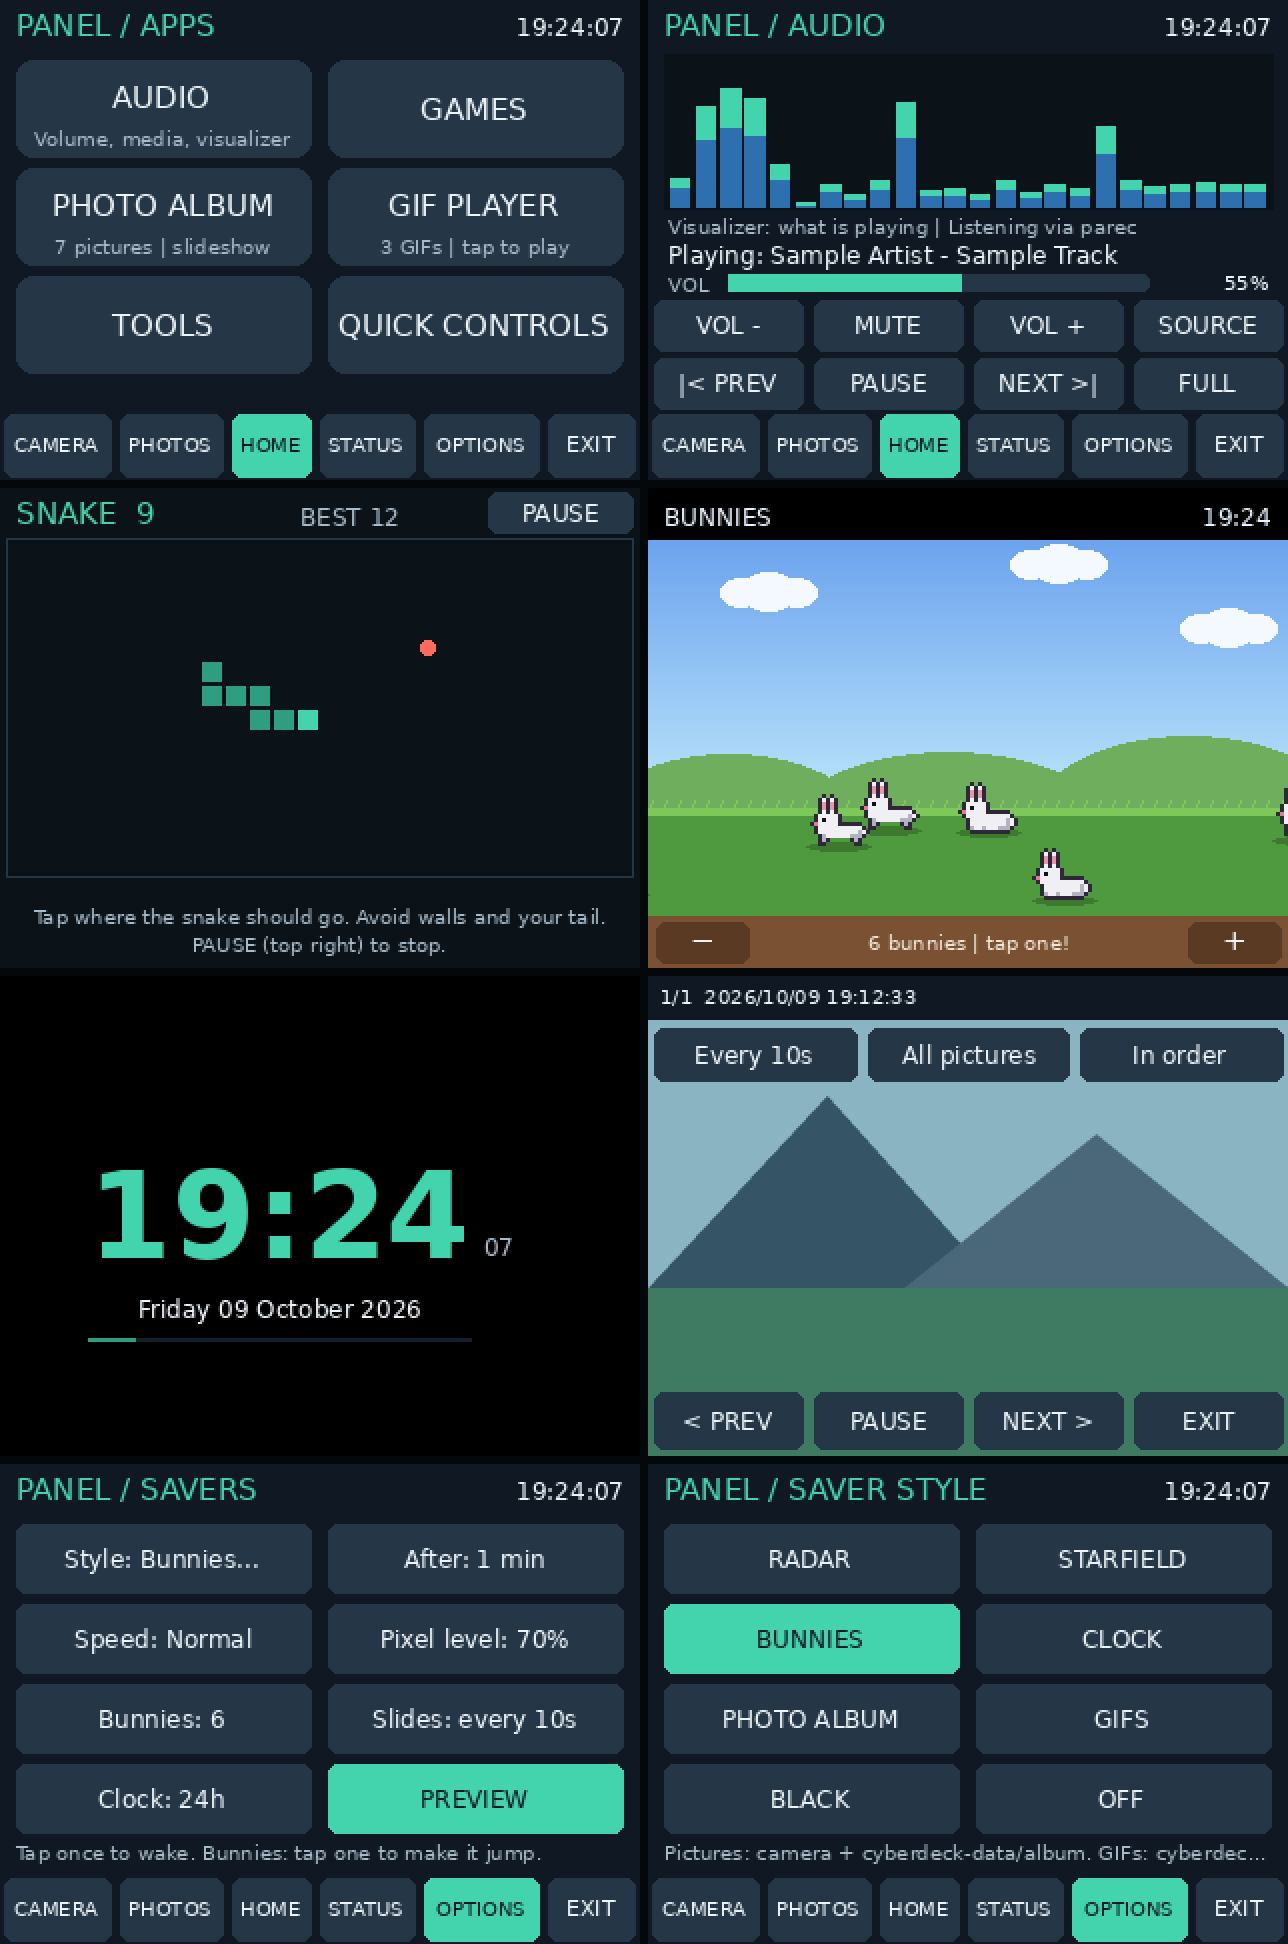
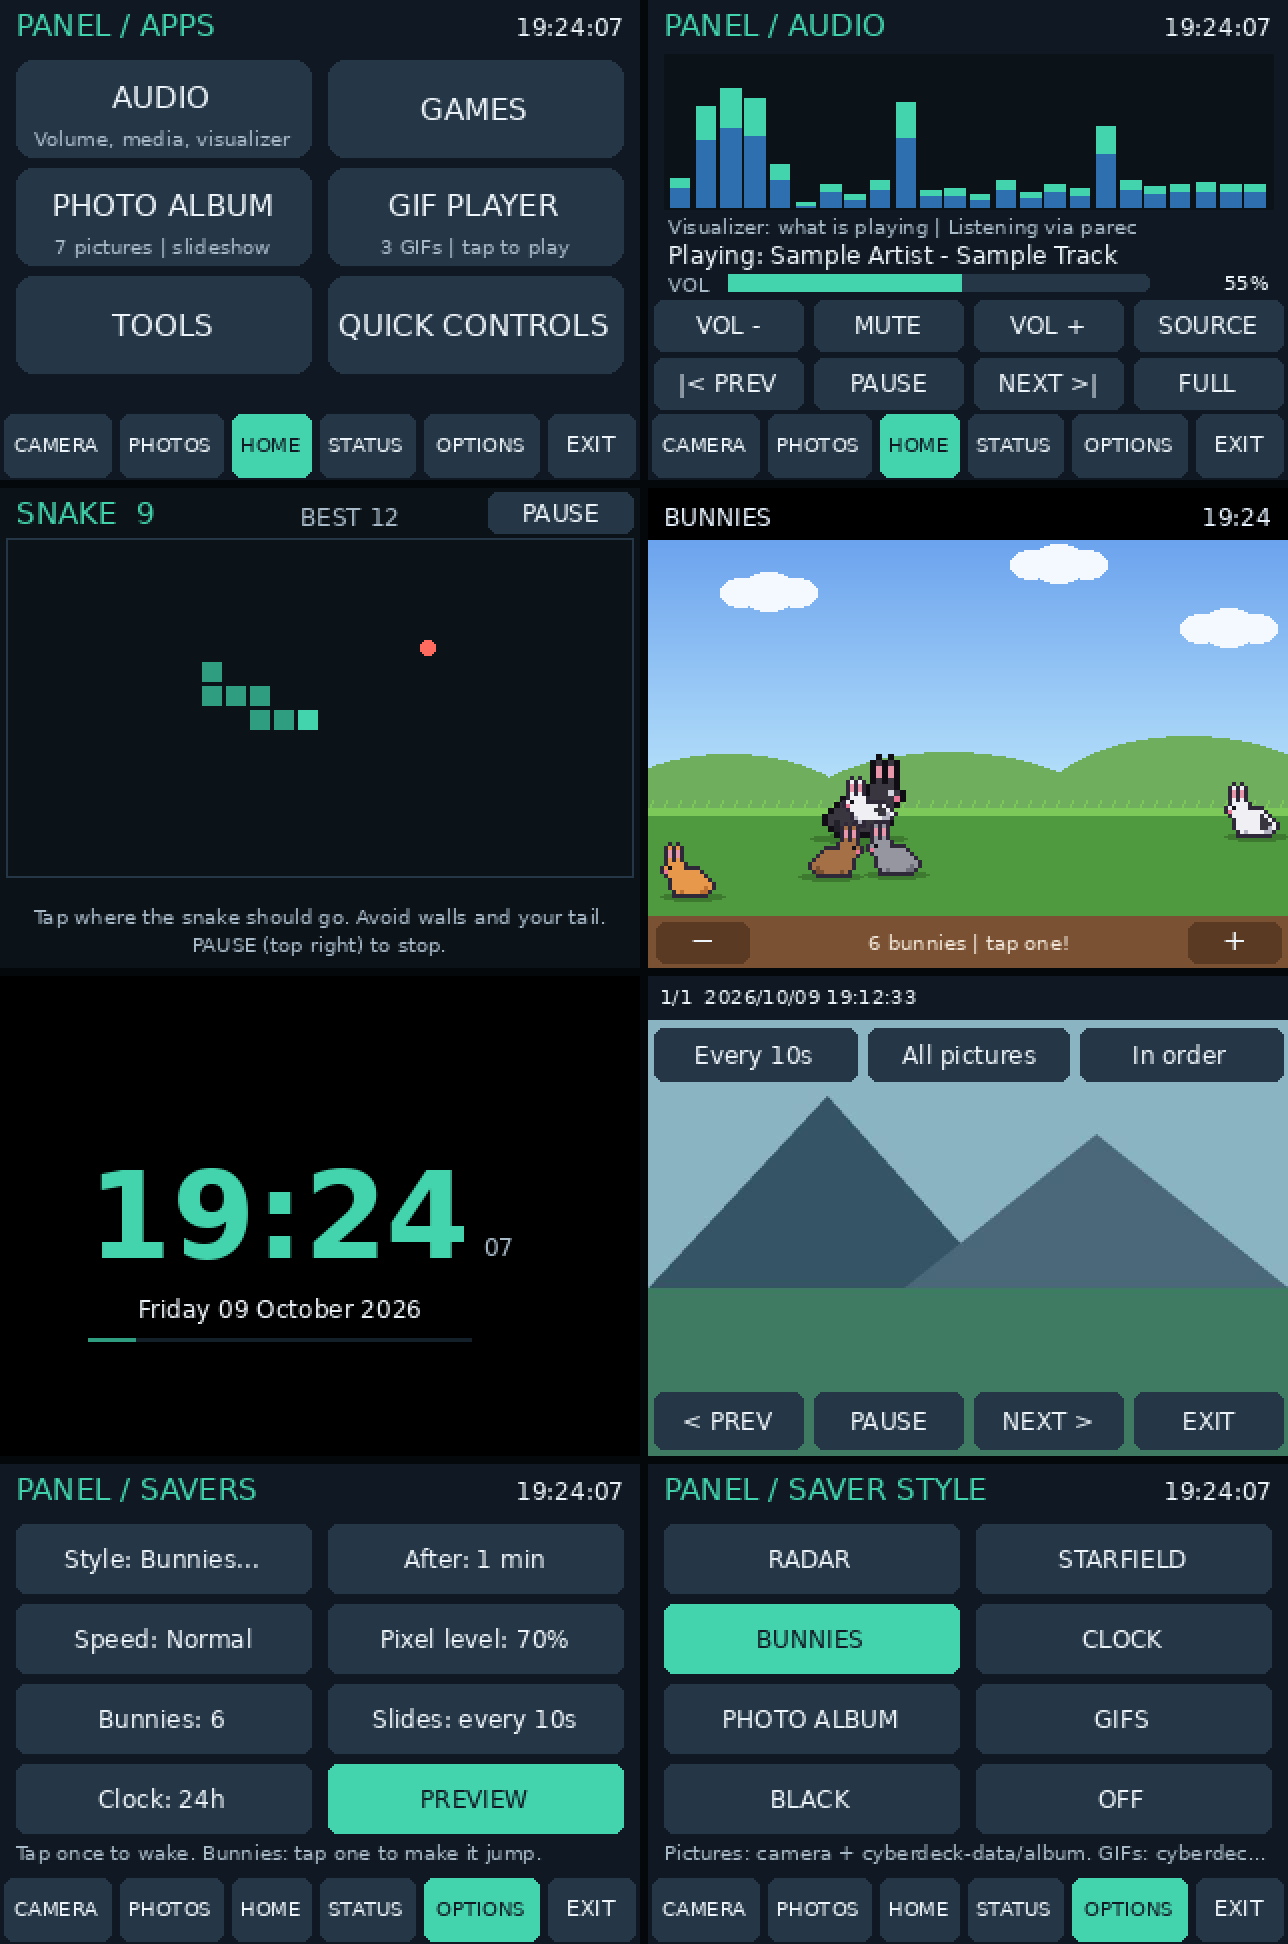
Bunny saver: random breeds and coats, compact new sprite
- Rounder, more compact sitting pose (the old torso was long and flat)
- Lop variant with hanging ears; Flemish giants drawn 1.5x, slower,
  bigger hops, in solid giant colours
- Eight coats incl. Dutch and spotted markings, picked at random per bunny
- Per-bunny frames (cached), size-aware edge wrap and tap targets; a custom
  sprite still replaces all breeds
- Tests, breed chart preview and docs

Claude-Session: https://claude.ai/code/session_01XeYQ8PF2srL9M1PCKTNy7Z

diff --git a/panel_app.py b/panel_app.py
@@ -886,37 +886,85 @@ HOME_CLOCK, HOME_LABEL, HOME_LABEL_SMALL = font(34, bold=True), font(14, bold=Tr
 
 # Original pixel art in the spirit of the Terraria bunny (not Re-Logic's sprite).
 # Drop your own sheet in cyberdeck-data/sprites/bunny.png to replace it.
-BUNNY_PALETTE = {'o': (46, 40, 56), 'w': (240, 240, 244), 'g': (178, 178, 192),
-                 'p': (232, 150, 170), 'e': (20, 16, 24), 'n': (232, 120, 150)}
-BUNNY_SIT = ["..........o.o...", ".........owowo..", ".........opopo..", ".........opopo..",
-             ".........owowo..", "........owwwwwo.", "........owwwewo.", "...oooooowwwwwno",
-             "..owwwwwwwwwwwo.", ".owgwwwwwwwwwo..", ".owgwwwwwwwwwo..", "..ogggwwwgwwgo..",
-             "...oooooooooo..."]
-BUNNY_HOP = [".........o.o....", "........owowo...", "........opopo...", "........opopo...",
-             "........owowo...", ".......owwwwwo..", ".......owwwewo..", "..oooooowwwwwno.",
-             ".owwwwwwwwwwwo..", "owgwwwwwwwwwwo..", ".ogggwwwwwwgo...", "..ogo.....ogo...",
-             "..oo.......oo..."]
+# Original pixel art in the spirit of the Terraria bunny (not Re-Logic's sprite).
+# Keys: o outline, w fur, g shading, m markings (fur colour unless the coat has patches),
+# p inner ear, e eye, n nose. Drop your own sheet in cyberdeck-data/sprites/bunny.png
+# to replace them all.
+BUNNY_BASE = {'o': (46, 40, 56), 'p': (232, 150, 170), 'e': (20, 16, 24), 'n': (232, 120, 150)}
+BUNNY_COATS = {
+    'white': {'w': (240, 240, 244), 'g': (178, 178, 192)},
+    'grey': {'w': (150, 150, 160), 'g': (110, 110, 122)},
+    'chestnut': {'w': (166, 112, 70), 'g': (122, 80, 48)},
+    'black': {'w': (58, 54, 64), 'g': (34, 32, 40), 'o': (16, 14, 20), 'e': (210, 210, 220)},
+    'fawn': {'w': (238, 214, 170), 'g': (205, 170, 120)},
+    'orange': {'w': (232, 152, 74), 'g': (190, 112, 48)},
+    'dutch': {'w': (240, 240, 244), 'g': (178, 178, 192), 'm': (58, 54, 64)},
+    'spotted': {'w': (240, 240, 244), 'g': (178, 178, 192), 'm': (166, 112, 70)},
+}
+# Compact, rounded sitting pose (a shorter, taller body than the first version) + hop pose.
+BUNNY_SIT = ["...........o.o..", "..........owowo.", "..........opopo.", "..........opopo.",
+             "..........owowo.", ".........owwwwo.", "......oooowwwewo", ".....owwwwwwwwno",
+             "....owmwwwwwwwo.", "...owmmwwwwwwo..", "..owmmmwwwwwwo..", "..owgmmwwwwwwo..",
+             "...oggwwwwgwo...", "....ooooooooo..."]
+BUNNY_HOP = ["..........o.o...", ".........owowo..", ".........opopo..", ".........opopo..",
+             ".........owowo..", "........owwwwo..", "....ooooowwwewo.", "...owmwwwwwwwno.",
+             "..owmmmwwwwwwo..", ".owgmmwwwwwwo...", "..oggwwwwwwgo...", "...ogo...ogo....",
+             "...oo....oo.....", "................"]
+# Lop: ears hang down beside a rounder head.
+LOP_SIT = ["................", "................", "................", "................",
+           "..........ooo...", "........ooowwwo.", "......oogggowwwo", ".....owogggowewo",
+           "....owmogggowwwn", "...owmmogggowwo.", "..owmmmwoggowo..", "..owgmmwwoooo...",
+           "...oggwwwwgwo...", "....ooooooooo..."]
+LOP_HOP = ["................", "................", "................", "................",
+           ".........ooo....", ".......ooowwwo..", "....oooogggowwwo", "...owmmogggowewo",
+           "..owmmmogggowwwn", ".owgmmwwoggowwo.", "..oggwwwwoooo...", "...ogo...ogo....",
+           "...oo....oo.....", "................"]
+BUNNY_SHAPES = {'standard': (BUNNY_SIT, BUNNY_HOP), 'lop': (LOP_SIT, LOP_HOP)}
+# Breeds: (shape, scale, weight, coats). Flemish giants are drawn 1.5x and come in the
+# solid colours the breed is known for.
+BUNNY_BREEDS = {
+    'standard': ('standard', 2, 55, tuple(BUNNY_COATS)),
+    'lop': ('lop', 2, 30, tuple(BUNNY_COATS)),
+    'giant': ('standard', 3, 15, ('grey', 'chestnut', 'black', 'fawn', 'white')),
+}
+BUNNY_PALETTE = {**BUNNY_BASE, **BUNNY_COATS['white']}  # The classic white bunny.
 
 
-def pixel_sprite(rows, scale=2):
+def pixel_sprite(rows, scale=2, coat='white'):
+    colours = {**BUNNY_BASE, **BUNNY_COATS[coat]}
+    colours.setdefault('m', colours['w'])
     image = Image.new('RGBA', (len(rows[0]), len(rows)), (0, 0, 0, 0))
     for y, row in enumerate(rows):
         for x, key in enumerate(row):
-            if key in BUNNY_PALETTE:
-                image.putpixel((x, y), BUNNY_PALETTE[key] + (255,))
+            if key in colours:
+                image.putpixel((x, y), colours[key] + (255,))
     return image.resize((image.width*scale, image.height*scale), Image.NEAREST)
 
 
-def load_bunny_frames(data=None):
-    """Right-facing RGBA frames. Frame 0 = resting; the rest animate while hopping.
+def bunny_look(shape='standard', coat='white', scale=2):
+    """[sit, hop] frames for one breed/coat, trimmed of shared empty rows on top so the
+    tap target hugs the visible bunny."""
+    frames = [pixel_sprite(rows, scale, coat) for rows in BUNNY_SHAPES[shape]]
+    top = min(f.getbbox()[1] for f in frames)
+    return [f.crop((0, top, f.width, f.height)) for f in frames]
 
-    Custom sheet: <data>/sprites/bunny.png, optional bunny.json with
+
+def random_breed(rng):
+    names = list(BUNNY_BREEDS)
+    breed = rng.choices(names, weights=[BUNNY_BREEDS[n][2] for n in names])[0]
+    shape, scale, _, coats = BUNNY_BREEDS[breed]
+    return breed, (shape, rng.choice(coats), scale)
+
+
+def custom_bunny_frames(data):
+    """Right-facing frames from <data>/sprites/bunny.png, or None (missing or unusable) to use
+    the built-in breeds. Optional bunny.json beside it:
     {"frames": 1, "layout": "vertical" | "horizontal", "scale": 2, "faces": "right" | "left"}.
+    Frame 0 = resting; the rest animate while hopping.
     """
-    default = [pixel_sprite(BUNNY_SIT), pixel_sprite(BUNNY_HOP)]
     path = Path(data) / 'sprites' / 'bunny.png' if data else None
     if path is None or not path.is_file():
-        return default
+        return None
     try:
         meta = path.with_suffix('.json')
         meta = json.loads(meta.read_text()) if meta.is_file() else {}
@@ -940,7 +988,12 @@ def load_bunny_frames(data=None):
         return frames
     except (OSError, ValueError, TypeError, AttributeError) as exc:
         print('Custom bunny sprite ignored:', exc, flush=True)
-        return default
+        return None
+
+
+def load_bunny_frames(data=None):
+    """The custom sprite if there is a usable one, else the classic white bunny."""
+    return custom_bunny_frames(data) or bunny_look()
 
 
 def letterbox(picture, size=None):
@@ -1001,11 +1054,13 @@ def bunny_lane(rng):
 
 
 class Bunny:
-    def __init__(self, rng, entering=None):
+    def __init__(self, rng, entering=None, breed=None, look=None, half=16):
         self.rng = rng
+        self.breed, self.look = breed, look  # look = (shape, coat, scale); None = custom sprite.
+        self.half = half  # Half the sprite width, for wrapping at the screen edges.
         self.direction = rng.choice((-1, 1))
         self.ground = bunny_lane(rng)
-        self.x = rng.uniform(10, W-10) if entering is None else (-16 if entering > 0 else W+16)
+        self.x = rng.uniform(10, W-10) if entering is None else (-half if entering > 0 else W+half)
         if entering is not None:
             self.direction = entering
         self.hop_start, self.hop_length, self.hop_height = None, .45, 10
@@ -1014,14 +1069,15 @@ class Bunny:
 
     def jump(self, now, big=False):
         self.hop_start = now
-        self.hop_length = .8 if big else self.rng.uniform(.38, .5)
-        self.hop_height = 34 if big else self.rng.uniform(6, 13)
+        heavy = self.breed == 'giant'  # Giants: slower, bigger hops.
+        self.hop_length = .8 if big else self.rng.uniform(.38, .5) * (1.35 if heavy else 1)
+        self.hop_height = (34 if big else self.rng.uniform(6, 13)) * (1.3 if heavy else 1)
         if big:
             self.heart_until = now + 1.2
 
     def update(self, now, dt, speed):
         if self.hop_start is not None:
-            self.x += self.direction*speed*dt
+            self.x += self.direction*speed*dt*(.75 if self.breed == 'giant' else 1)
             if now-self.hop_start >= self.hop_length:
                 self.hop_start = None
                 self.rest_until = now + self.rng.uniform(.15, 1.4)
@@ -1030,10 +1086,10 @@ class Bunny:
         elif now >= self.rest_until:
             self.jump(now)
         # Wrap just past the edge so nearly every bunny is visible at any moment.
-        if self.x < -18:
-            self.x, self.ground = W+16, bunny_lane(self.rng)
-        elif self.x > W+18:
-            self.x, self.ground = -16, bunny_lane(self.rng)
+        if self.x < -self.half-2:
+            self.x, self.ground = W+self.half, bunny_lane(self.rng)
+        elif self.x > W+self.half+2:
+            self.x, self.ground = -self.half, bunny_lane(self.rng)
 
     def lift(self, now):
         if self.hop_start is None:
@@ -1069,24 +1125,36 @@ class BunnySaver(Saver):
     style = 'bunnies'
 
     def __init__(self, options, set_count, frames=None, seed=None):
+        """frames: a custom sprite used for every bunny; None = random breeds and coats."""
         import random
         self.options, self.set_count = options, set_count
         self.rng = random.Random(seed)
-        self.frames = frames or load_bunny_frames()
-        self.mirrored = [ImageOps.mirror(f) for f in self.frames]
+        self.custom = frames
+        self.looks = {}  # (shape, coat, scale) -> (right-facing, left-facing) frames.
         self.background = bunny_background()
-        self.bunnies = [Bunny(self.rng) for _ in range(options['bunny_count'])]
+        self.bunnies = [self.new_bunny() for _ in range(options['bunny_count'])]
         self.last = None
         self.message, self.message_until = '', 0
+
+    def frames_for(self, look):
+        if look not in self.looks:
+            right = self.custom if look is None else bunny_look(*look)
+            self.looks[look] = (right, [ImageOps.mirror(f) for f in right])
+        return self.looks[look]
+
+    def new_bunny(self, entering=None):
+        breed, look = (None, None) if self.custom else random_breed(self.rng)
+        half = self.frames_for(look)[0][0].width // 2
+        return Bunny(self.rng, entering, breed, look, half)
 
     def sync_count(self):
         target = self.options['bunny_count']
         while len(self.bunnies) < target:
-            self.bunnies.append(Bunny(self.rng, entering=self.rng.choice((-1, 1))))
+            self.bunnies.append(self.new_bunny(entering=self.rng.choice((-1, 1))))
         del self.bunnies[target:]
 
     def bunny_box(self, bunny, now):
-        frame = self.frames[0]
+        frame = self.frames_for(bunny.look)[0][0]
         top = bunny.ground - frame.height - bunny.lift(now)
         return (bunny.x-frame.width/2, top, bunny.x+frame.width/2, bunny.ground)
 
@@ -1119,7 +1187,8 @@ class BunnySaver(Saver):
         d = ImageDraw.Draw(image)
         for bunny in sorted(self.bunnies, key=lambda b: b.ground):
             bunny.update(now, dt, speed)
-            frames = self.frames if bunny.direction > 0 else self.mirrored
+            right, left = self.frames_for(bunny.look)
+            frames = right if bunny.direction > 0 else left
             if bunny.hop_start is None or len(frames) == 1:
                 frame = frames[0]
             elif len(frames) == 2:
@@ -3735,7 +3804,7 @@ def main():
         album_show = Slideshow(options, photos, album_dir, library)
         gif_player, saver_gifs = GifPlayer(gif_dir), GifPlayer(gif_dir)
         players.extend((gif_player, saver_gifs))
-        bunny_frames = load_bunny_frames(data)
+        bunny_frames = custom_bunny_frames(data)  # None: random built-in breeds and coats.
         apps = {'snake': SnakeApp(scores.get('snake_best', 0), score_saver('snake_best')),
                 'tetris': TetrisApp(scores.get('tetris_best', 0), score_saver('tetris_best')),
                 'pong': PongApp(scores.get('pong_wins', 0), score_saver('pong_wins')),

diff --git a/tests/test_panel_app.py b/tests/test_panel_app.py
@@ -747,3 +747,56 @@ class ServiceSetupTest(unittest.TestCase):
 
 if __name__ == '__main__':
     unittest.main()
+
+
+class BunnyBreedsTest(unittest.TestCase):
+    def test_new_body_is_compact_not_long_and_flat(self):
+        # Body = rows below the head line; a sitting bunny should be nearly as tall as long.
+        body = app.BUNNY_SIT[6:]
+        length = max(r.rstrip('.').__len__() - (len(r) - len(r.lstrip('.'))) for r in body)
+        self.assertGreaterEqual(len(body) / length, .6)
+
+    def test_breeds_coats_and_giants(self):
+        import random
+        rng = random.Random(1)
+        picks = [app.random_breed(rng) for _ in range(400)]
+        breeds = {breed for breed, _ in picks}
+        coats = {look[1] for _, look in picks}
+        self.assertEqual(breeds, {'standard', 'lop', 'giant'})
+        self.assertEqual(coats, set(app.BUNNY_COATS))
+        for breed, (shape, coat, scale) in picks:
+            if breed == 'giant':
+                self.assertEqual(scale, 3)
+                self.assertIn(coat, ('grey', 'chestnut', 'black', 'fawn', 'white'))
+        small, giant = app.bunny_look('standard', 'grey', 2), app.bunny_look('standard', 'grey', 3)
+        self.assertGreater(giant[0].width, small[0].width * 1.4)
+        self.assertNotEqual(app.bunny_look('lop')[0].tobytes(), app.bunny_look()[0].tobytes())
+        white, dutch = app.bunny_look(coat='white')[0], app.bunny_look(coat='dutch')[0]
+        self.assertNotEqual(white.tobytes(), dutch.tobytes())  # Dutch patches show.
+        for frames in (app.bunny_look('lop'), giant):
+            self.assertEqual(frames[0].getbbox()[1], 0)  # Empty rows trimmed off the top.
+
+    def test_saver_mixes_breeds_and_taps_use_each_bunny_size(self):
+        options = {**app.DEFAULT_OPTIONS, 'bunny_count': 24}
+        saver = app.BunnySaver(options, lambda n: 'Saved.', seed=4)
+        self.assertGreater(len({b.look for b in saver.bunnies}), 5)
+        giant = next(b for b in saver.bunnies if b.breed == 'giant')
+        small = next(b for b in saver.bunnies if b.breed == 'standard')
+        width = lambda b: saver.bunny_box(b, 0)[2] - saver.bunny_box(b, 0)[0]
+        self.assertGreater(width(giant), width(small))
+        left, top, right, bottom = saver.bunny_box(giant, 0)
+        saver.bunnies = [giant]
+        self.assertTrue(saver.tap(right - 2, top + 4, 0))  # Edge of the big sprite still counts.
+        self.assertEqual(saver.render(.1, datetime.now(), ())[0].size, (320, 240))
+
+    def test_custom_sprite_replaces_all_breeds(self):
+        with tempfile.TemporaryDirectory() as folder:
+            self.assertIsNone(app.custom_bunny_frames(folder))
+            sprites = Path(folder) / 'sprites'
+            sprites.mkdir()
+            Image.new('RGBA', (18, 12), (255, 0, 0, 255)).save(sprites / 'bunny.png')
+            frames = app.custom_bunny_frames(folder)
+            saver = app.BunnySaver({**app.DEFAULT_OPTIONS, 'bunny_count': 6}, lambda n: '',
+                                   frames=frames, seed=1)
+            self.assertEqual({b.look for b in saver.bunnies}, {None})
+            self.assertEqual(saver.frames_for(None)[0], frames)

diff --git a/tools/render_previews.py b/tools/render_previews.py
@@ -220,6 +220,7 @@ def games_screens(clock):
     save_sheet(sheets[1], 'games-portrait-preview.png', cols=6)
     puzzle_screens(clock)
     home_screens(clock)
+    bunny_breeds()
 
 
 def home_screens(clock):
@@ -274,6 +275,31 @@ def puzzle_screens(clock):
     finally:
         app.set_rotation(0)
 
+
+
+def bunny_breeds():
+    """Every coat as a standard and a lop bunny, then the Flemish giant coats, labelled."""
+    from PIL import ImageDraw
+    coats = list(app.BUNNY_COATS)
+    cell, scale, label = 48, 2, 16
+    rows = [('Standard', 'standard', coats, 2), ('Lop', 'lop', coats, 2),
+            ('Flemish giant', 'standard', list(app.BUNNY_BREEDS['giant'][3]), 3)]
+    height = cell*scale + label
+    sheet = Image.new('RGB', (len(coats)*cell*scale, len(rows)*height), (118, 176, 236))
+    d = ImageDraw.Draw(sheet)
+    for r, (title, shape, names, size) in enumerate(rows):
+        top = r*height
+        d.text((4, top+2), title, fill='#123', font=app.SMALL)
+        for c, coat in enumerate(names):
+            sit = app.bunny_look(shape, coat, size)[0]
+            big = sit.resize((sit.width*scale, sit.height*scale), Image.NEAREST)
+            x = c*cell*scale + (cell*scale - big.width)//2
+            sheet.paste(big, (x, top + cell*scale - big.height), big)
+            d.text((c*cell*scale + cell*scale//2, top + cell*scale + label//2), coat,
+                   fill='#123', anchor='mm', font=app.TINY)
+    out = ROOT / 'docs/previews/bunny-breeds.png'
+    sheet.save(out, optimize=True)
+    print(out)
 
 if __name__ == '__main__':
     main()

diff --git a/docs/APPS-AND-SAVERS.md b/docs/APPS-AND-SAVERS.md
@@ -52,6 +52,21 @@ The tabs are now **CAMERA, PHOTOS, APPS, STATUS, OPTIONS, EXIT**. APPS opens fou
 
 Pixel bunnies hop across a grassy field under drifting clouds. Each bunny rests, then hops along; now and then one turns around.
 
+![Bunny breeds and coats](previews/bunny-breeds.png)
+
+**Every bunny is different.** Each one gets a random breed and coat:
+
+| Breed | How often | Look | Coats |
+| --- | --- | --- | --- |
+| Standard | About 55% | Upright ears | All 8 coats |
+| Lop | About 30% | Ears hang down beside the head | All 8 coats |
+| Flemish Giant | About 15% | Drawn 1.5× larger. Moves a little slower and hops higher. | Grey, chestnut, black, fawn, white |
+
+- **Coats:** white, grey, chestnut, black, fawn, orange, Dutch (black patches) and spotted (brown patches).
+- **Bigger bunnies:** a giant's tap area matches its bigger size.
+- **New bunnies:** ones added with **+** get their own random look.
+- **Shape:** the sitting pose is rounder and more compact than the first version, which had a long, flat torso.
+
 - **Tap a bunny:** it does a big jump and a heart pops up. The saver stays on.
 - **− / +** (bottom corners): change how many bunnies there are: 1, 3, 6, 12 or 24. The count is saved.
 - **Tap the sky or grass:** wakes the panel, as with the other savers.
@@ -70,7 +85,7 @@ Pixel bunnies hop across a grassy field under drifting clouds. Each bunny rests,
 | `scale` | Pixel enlargement, 1 to 4. |
 | `faces` | The way the drawing faces. The app flips frames to suit the direction a bunny is moving. |
 
-A sheet that doesn't match its settings is ignored, with a message in the terminal or journal, and the built-in bunny is used instead.
+A sheet that doesn't match its settings is ignored, with a message in the terminal or journal, and the built-in bunnies are used instead. A valid custom sprite replaces all the breeds and coats; every bunny then uses your sprite.
 
 ## 2. Clock screensaver
 
